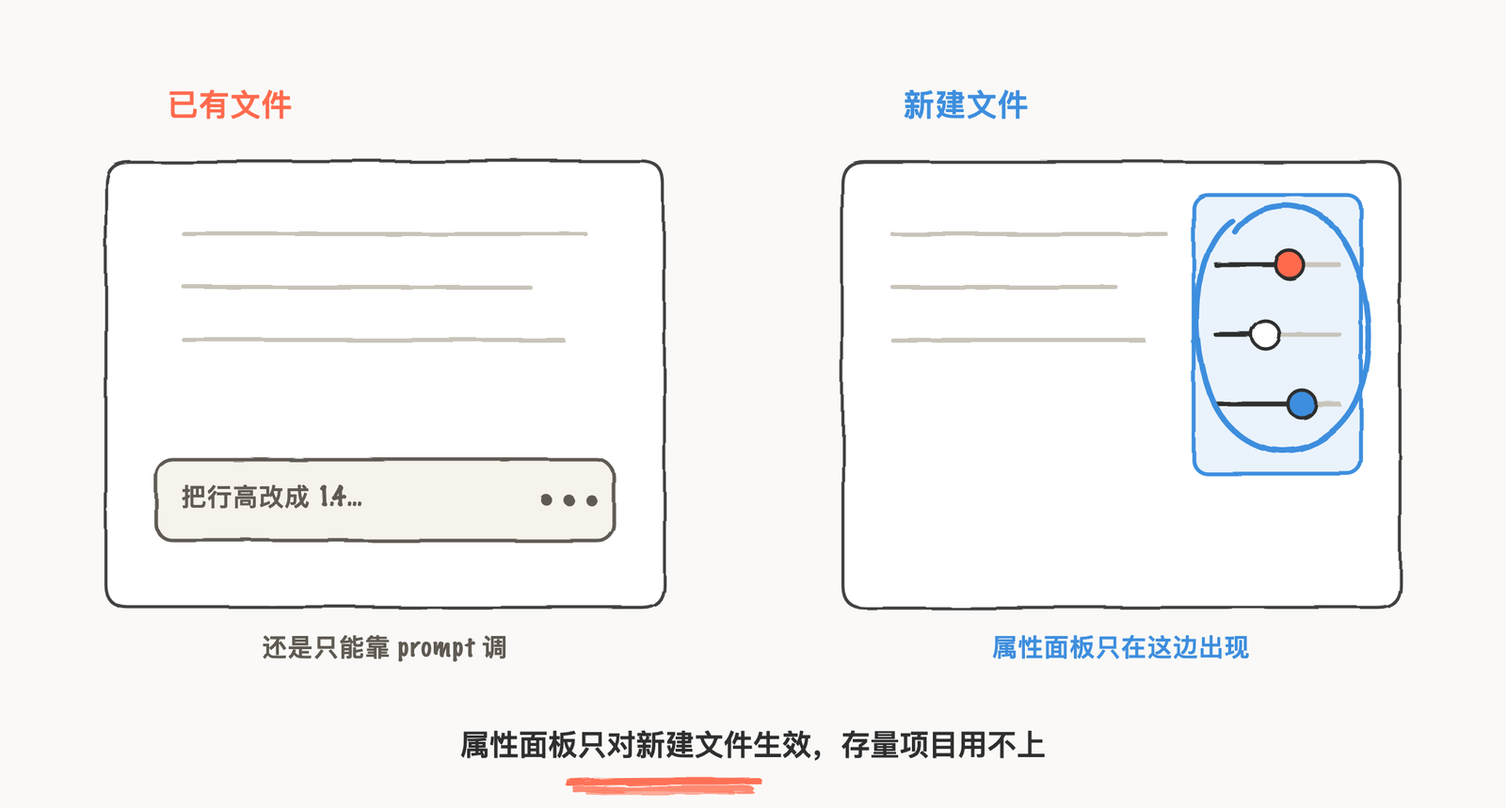
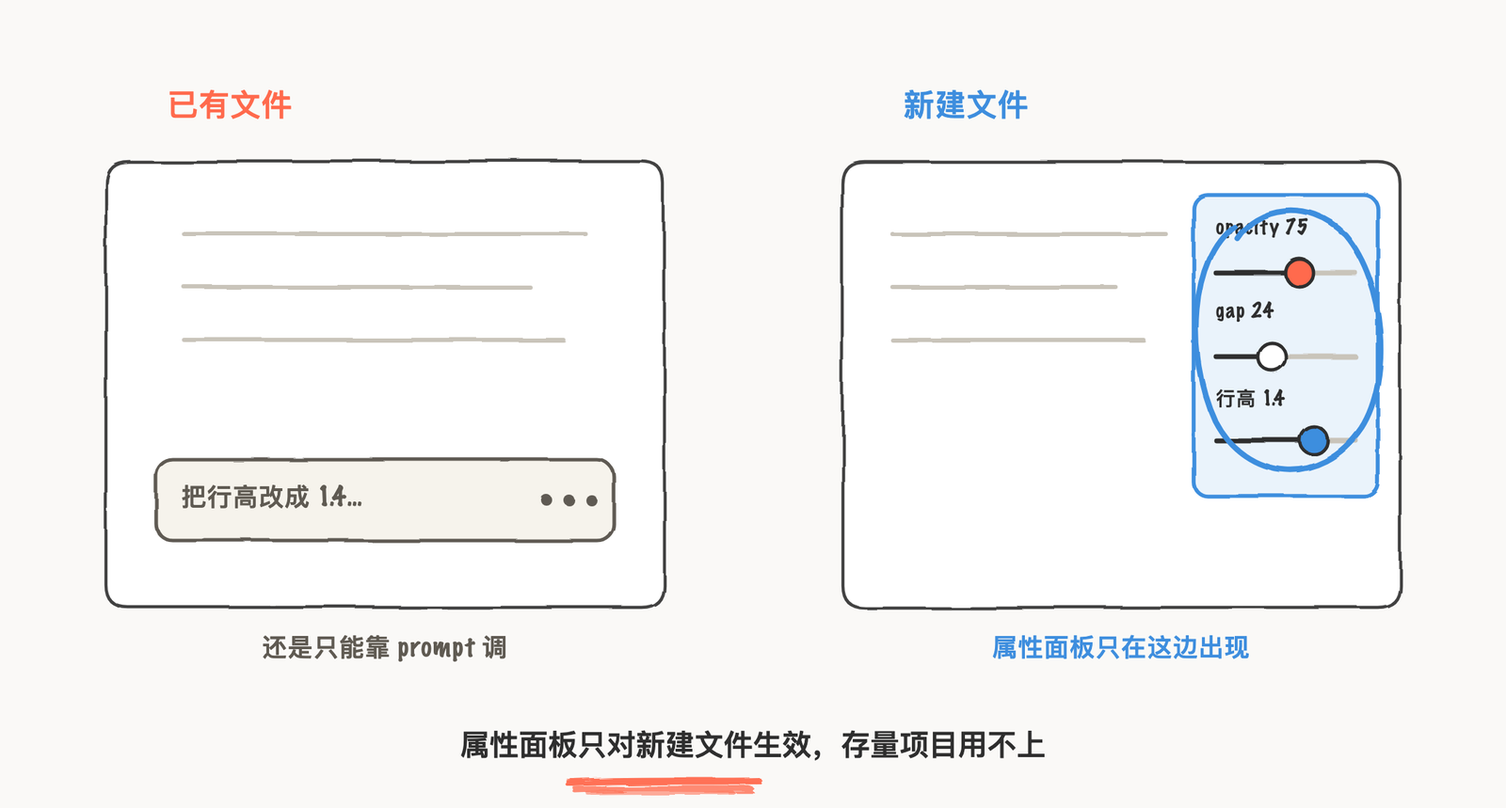
figma-make 文章:加 AutoLayout 段落与官方截图,手绘图补真实文字,标题改为 Figma make 活了

Changed region(s): [[0.7812, 0.2421, 0.9375, 0.6356]]

diff --git a/docs/writing/article-figma-make-properties-panel.html b/docs/writing/article-figma-make-properties-panel.html
@@ -4,7 +4,7 @@
 <head>
 <meta charset="utf-8"/>
 <meta content="width=device-width, initial-scale=1.0" name="viewport"/>
-<title>Prompt 不够用的时候属性面板来补 · VibeUX</title>
+<title>Figma make 活了 · VibeUX</title>
 <link href="../favicon.png?v=12" rel="icon" type="image/png"/>
 <link href="../favicon.png?v=12" rel="shortcut icon"/>
 <link href="../apple-touch-icon.png?v=12" rel="apple-touch-icon"/>
@@ -47,7 +47,7 @@
 </aside>
 <!-- 正文 -->
 <article class="article-reading">
-<h1 class="article-h1">Prompt 不够用的时候属性面板来补</h1>
+<h1 class="article-h1">Figma make 活了</h1>
 <div class="article-byline"><div class="article-eyebrow article-eyebrow-top"><span class="a-tag">AI 设计工具</span></div><span>2026-07-31</span><span>阅读约 7 分钟</span></div>
 <div class="article-cover"><iframe loading="lazy" src="assets/figma-make-properties-panel/cover.html"></iframe></div>
 <div class="article-body"><style>
@@ -481,14 +481,18 @@
     42% { transform: scale(1.2); }
   }
 </style>
-<p>Figma make 的交互方式只能在左侧 chat pannel 里通过 Prompt 的形式修改调整，相比于 cursor 早早支持的 design mode 属性面板，可以详细编辑调整视觉样式，Figma 作为前沿设计软件居然没有这种交互。这次，Figma make 终于赶来了。7 月 30 日 Figma 更新了 Make 编辑器，把 Design 里那个面板加进来了。</p>
-<div class="section-head"><span class="icon-badge" style="background: rgba(46, 134, 184, 0.1);"><svg fill="none" height="32" viewBox="0 0 24 24" width="32" xmlns="http://www.w3.org/2000/svg"><path clip-rule="evenodd" d="M11.0257 7.12C10.0573 6.76317 9.25184 6.4664 8.6236 6.33307C7.99692 6.20007 7.2628 6.1658 6.7143 6.7143C6.16579 7.26281 6.20007 7.99692 6.33307 8.6236C6.46639 9.25185 6.76317 10.0573 7.11999 11.0257L8.41465 14.5398C8.58695 15.0077 8.74432 15.435 8.91702 15.7509C9.10197 16.0893 9.395 16.4715 9.91716 16.5861C10.4393 16.7008 10.8655 16.4766 11.1753 16.2469C11.4645 16.0324 11.7864 15.7104 12.1389 15.3578L12.3975 15.0992L14.3428 17.0445C14.458 17.1596 14.5694 17.271 14.6705 17.3592C14.7808 17.4555 14.9187 17.5604 15.0964 17.634C15.4697 17.7887 15.8892 17.7887 16.2625 17.634C16.4402 17.5604 16.5781 17.4555 16.6884 17.3592C16.7895 17.271 16.9009 17.1596 17.0161 17.0445L17.0445 17.0161C17.1596 16.901 17.271 16.7895 17.3592 16.6885C17.4555 16.5781 17.5604 16.4402 17.634 16.2625C17.7887 15.8892 17.7887 15.4697 17.634 15.0964C17.5604 14.9187 17.4554 14.7808 17.3592 14.6705C17.271 14.5694 17.1596 14.458 17.0445 14.3428L15.0992 12.3975L15.3578 12.1389C15.7104 11.7864 16.0324 11.4645 16.2469 11.1753C16.4766 10.8656 16.7008 10.4393 16.5861 9.91717C16.4715 9.39501 16.0893 9.10197 15.7509 8.91702C15.435 8.74433 15.0077 8.58696 14.5398 8.41465L11.0257 7.12ZM7.75487 7.83859C7.76267 7.78024 7.77422 7.77528 7.77496 7.77496C7.77527 7.77422 7.78024 7.76268 7.83858 7.75487C7.9187 7.74415 8.06358 7.74763 8.3122 7.80039C8.82107 7.90839 9.52357 8.16514 10.566 8.5492L13.9717 9.80395C14.5057 10.0007 14.8252 10.1205 15.0315 10.2332C15.0433 10.2397 15.0541 10.2458 15.0639 10.2515C15.0574 10.2608 15.0501 10.2709 15.0421 10.2817C14.9021 10.4705 14.6622 10.7132 14.2598 11.1156L13.5082 11.8672C13.2153 12.1601 13.2153 12.635 13.5082 12.9279L15.9696 15.3893C16.1043 15.524 16.1785 15.5987 16.2288 15.6565C16.237 15.6659 16.2434 15.6735 16.2482 15.6795C16.2434 15.6854 16.237 15.6931 16.2288 15.7024C16.1785 15.7602 16.1043 15.8349 15.9696 15.9696C15.8349 16.1043 15.7602 16.1785 15.7024 16.2288C15.6976 16.2331 15.6932 16.2368 15.6892 16.2401C15.6856 16.2432 15.6823 16.2459 15.6795 16.2482C15.6735 16.2434 15.6659 16.237 15.6565 16.2288C15.5987 16.1785 15.524 16.1043 15.3893 15.9696L12.9279 13.5082C12.635 13.2153 12.1601 13.2153 11.8672 13.5082L11.1156 14.2598C10.7132 14.6622 10.4705 14.9021 10.2817 15.0421C10.2709 15.0501 10.2608 15.0574 10.2515 15.0639C10.2458 15.0541 10.2397 15.0433 10.2332 15.0315C10.1205 14.8252 10.0007 14.5057 9.80394 13.9718L8.5492 10.566C8.16514 9.52357 7.90838 8.82107 7.80038 8.3122C7.74762 8.06359 7.74414 7.9187 7.75487 7.83859Z" fill="#2E86B8" fill-rule="evenodd"></path><path clip-rule="evenodd" d="M12.0574 1.25H11.9426C9.63424 1.24999 7.82519 1.24998 6.41371 1.43975C4.96897 1.63399 3.82895 2.03933 2.93414 2.93414C2.03933 3.82895 1.63399 4.96897 1.43975 6.41371C1.24998 7.82519 1.24999 9.63422 1.25 11.9426V12.0574C1.24999 14.3658 1.24998 16.1748 1.43975 17.5863C1.63399 19.031 2.03933 20.1711 2.93414 21.0659C3.82895 21.9607 4.96897 22.366 6.41371 22.5603C7.82519 22.75 9.63423 22.75 11.9426 22.75H12.0574C14.3658 22.75 16.1748 22.75 17.5863 22.5603C19.031 22.366 20.1711 21.9607 21.0659 21.0659C21.9607 20.1711 22.366 19.031 22.5603 17.5863C22.75 16.1748 22.75 14.3658 22.75 12.0574V11.9426C22.75 9.63423 22.75 7.82519 22.5603 6.41371C22.366 4.96897 21.9607 3.82895 21.0659 2.93414C20.1711 2.03933 19.031 1.63399 17.5863 1.43975C16.1748 1.24998 14.3658 1.24999 12.0574 1.25ZM3.9948 3.9948C4.56445 3.42514 5.33517 3.09825 6.61358 2.92637C7.91356 2.75159 9.62177 2.75 12 2.75C14.3782 2.75 16.0864 2.75159 17.3864 2.92637C18.6648 3.09825 19.4355 3.42514 20.0052 3.9948C20.5749 4.56445 20.9018 5.33517 21.0736 6.61358C21.2484 7.91356 21.25 9.62177 21.25 12C21.25 14.3782 21.2484 16.0864 21.0736 17.3864C20.9018 18.6648 20.5749 19.4355 20.0052 20.0052C19.4355 20.5749 18.6648 20.9018 17.3864 21.0736C16.0864 21.2484 14.3782 21.25 12 21.25C9.62177 21.25 7.91356 21.2484 6.61358 21.0736C5.33517 20.9018 4.56445 20.5749 3.9948 20.0052C3.42514 19.4355 3.09825 18.6648 2.92637 17.3864C2.75159 16.0864 2.75 14.3782 2.75 12C2.75 9.62177 2.75159 7.91356 2.92637 6.61358C3.09825 5.33517 3.42514 4.56445 3.9948 3.9948Z" fill="#2E86B8" fill-rule="evenodd"></path></svg></span><h2 style="color: #2E86B8;">Prompt 做不到指哪改哪的精确</h2></div>
-<p>Figma Make 从上线到现在一直是纯 prompt 驱动：文字描述要改什么，agent 把改动写进代码。类似 opacity 从 80 调到 75、行高从 1.5 改到 1.4，这种精确到具体数字的微调是想路径是这样：先在代码里搜索定位是哪个元素，再改数值，有时候意图模糊时还得猜到底是多少，这种细节调整明显手搓比让 agent 跑一轮更快更准。</p>
-<div class="section-head"><span class="icon-badge" style="background: rgba(46, 134, 184, 0.1);"><svg fill="none" height="32" viewBox="0 0 24 24" width="32" xmlns="http://www.w3.org/2000/svg"><path d="M16.9585 9.75C16.5443 9.75 16.2085 9.41421 16.2085 9L16.2085 2C16.2085 1.58579 16.5443 1.25 16.9585 1.25C17.3727 1.25 17.7085 1.58579 17.7085 2L17.7085 9C17.7085 9.41421 17.3727 9.75 16.9585 9.75Z" fill="#2E86B8"></path><path clip-rule="evenodd" d="M7 5.75C9.07107 5.75 10.75 7.42893 10.75 9.5C10.75 11.5711 9.07107 13.25 7 13.25C4.92893 13.25 3.25 11.5711 3.25 9.5C3.25 7.42893 4.92893 5.75 7 5.75ZM9.25 9.5C9.25 8.25736 8.24264 7.25 7 7.25C5.75736 7.25 4.75 8.25736 4.75 9.5C4.75 10.7426 5.75736 11.75 7 11.75C8.24264 11.75 9.25 10.7426 9.25 9.5Z" fill="#2E86B8" fill-rule="evenodd"></path><path clip-rule="evenodd" d="M17 18.25C19.0711 18.25 20.75 16.5711 20.75 14.5C20.75 12.4289 19.0711 10.75 17 10.75C14.9289 10.75 13.25 12.4289 13.25 14.5C13.25 16.5711 14.9289 18.25 17 18.25ZM19.25 14.5C19.25 15.7426 18.2426 16.75 17 16.75C15.7574 16.75 14.75 15.7426 14.75 14.5C14.75 13.2574 15.7574 12.25 17 12.25C18.2426 12.25 19.25 13.2574 19.25 14.5Z" fill="#2E86B8" fill-rule="evenodd"></path><path d="M6.20852 15C6.20852 14.5858 6.54431 14.25 6.95852 14.25C7.37273 14.25 7.70852 14.5858 7.70852 15V22C7.70852 22.4142 7.37273 22.75 6.95852 22.75C6.54431 22.75 6.20852 22.4142 6.20852 22V15Z" fill="#2E86B8"></path><path d="M16.9585 22.75C16.5443 22.75 16.2085 22.4142 16.2085 22V20C16.2085 19.5858 16.5443 19.25 16.9585 19.25C17.3727 19.25 17.7085 19.5858 17.7085 20V22C17.7085 22.4142 17.3727 22.75 16.9585 22.75Z" fill="#2E86B8"></path><path d="M6.20852 2C6.20852 1.58579 6.54431 1.25 6.95852 1.25C7.37273 1.25 7.70852 1.58579 7.70852 2V4C7.70852 4.41421 7.37273 4.75 6.95852 4.75C6.54431 4.75 6.20852 4.41421 6.20852 4V2Z" fill="#2E86B8"></path></svg></span><h2 style="color: #2E86B8;">使用属性面板进行精确编辑</h2></div>
-<p>因此，直接给 Make 加上精确的操作目标，省掉了文字 prompt 需要的搜索和猜测。具体操作是右上角工具栏点 "Edit"，右侧弹出面板上都是常见参数操作方式和 Figma Design 里基本一样。面板里还带了一套完整的 DOM tree 视图，官方管它叫 "code 的 layers panel"，选中一个元素之后可以看到它在代码里的层级位置，所有实例一次性批量改。批量编辑这个能力其实 Design 的属性面板没有，Make 这边反倒先做了，算是个小惊喜。</p>
+<p>Figma make 是 AI 时代早期加入 AI 提示词生成 UI 的设计工具，但后续进度有点慢了，那些在 design 模式下的工具面板、 AutoLayout 这些可视化的便捷操作，始终没有并入到 AI coding 中，<strong>一种 UI 元素是极其僵硬的原始感觉</strong>，怎么还没进化的期待感。相对来说 cursor 早早支持的 design mode 属性面板可以详细编辑调整视觉样式，在设计工具这一条线是走得更快的，Figma 作为前沿设计软件居然没有这种交互。</p>
+<p>大部分 design Agent 工具一直在解决 Prompt 做不到指哪改哪的精确控制问题，是因为这类工具的用户画像是 UI设计师、UX 设计师、Motion 设计师群体本身都是细节控，都有精确到像素点的习惯，自然就希望每个元素都必须能自己掌控。</p>
+<p>这次，Figma make 终于赶上来了。7 月 30 日 Figma 更新了 Make 编辑器，把 Design 里那个面板加进来了，同时还有AutoLayout、点哪改哪的 Agent。</p>
+<div class="section-head"><span class="icon-badge" style="background: rgba(46, 134, 184, 0.1);"><svg fill="none" height="32" viewBox="0 0 24 24" width="32" xmlns="http://www.w3.org/2000/svg"><path clip-rule="evenodd" d="M11.0257 7.12C10.0573 6.76317 9.25184 6.4664 8.6236 6.33307C7.99692 6.20007 7.2628 6.1658 6.7143 6.7143C6.16579 7.26281 6.20007 7.99692 6.33307 8.6236C6.46639 9.25185 6.76317 10.0573 7.11999 11.0257L8.41465 14.5398C8.58695 15.0077 8.74432 15.435 8.91702 15.7509C9.10197 16.0893 9.395 16.4715 9.91716 16.5861C10.4393 16.7008 10.8655 16.4766 11.1753 16.2469C11.4645 16.0324 11.7864 15.7104 12.1389 15.3578L12.3975 15.0992L14.3428 17.0445C14.458 17.1596 14.5694 17.271 14.6705 17.3592C14.7808 17.4555 14.9187 17.5604 15.0964 17.634C15.4697 17.7887 15.8892 17.7887 16.2625 17.634C16.4402 17.5604 16.5781 17.4555 16.6884 17.3592C16.7895 17.271 16.9009 17.1596 17.0161 17.0445L17.0445 17.0161C17.1596 16.901 17.271 16.7895 17.3592 16.6885C17.4555 16.5781 17.5604 16.4402 17.634 16.2625C17.7887 15.8892 17.7887 15.4697 17.634 15.0964C17.5604 14.9187 17.4554 14.7808 17.3592 14.6705C17.271 14.5694 17.1596 14.458 17.0445 14.3428L15.0992 12.3975L15.3578 12.1389C15.7104 11.7864 16.0324 11.4645 16.2469 11.1753C16.4766 10.8656 16.7008 10.4393 16.5861 9.91717C16.4715 9.39501 16.0893 9.10197 15.7509 8.91702C15.435 8.74433 15.0077 8.58696 14.5398 8.41465L11.0257 7.12ZM7.75487 7.83859C7.76267 7.78024 7.77422 7.77528 7.77496 7.77496C7.77527 7.77422 7.78024 7.76268 7.83858 7.75487C7.9187 7.74415 8.06358 7.74763 8.3122 7.80039C8.82107 7.90839 9.52357 8.16514 10.566 8.5492L13.9717 9.80395C14.5057 10.0007 14.8252 10.1205 15.0315 10.2332C15.0433 10.2397 15.0541 10.2458 15.0639 10.2515C15.0574 10.2608 15.0501 10.2709 15.0421 10.2817C14.9021 10.4705 14.6622 10.7132 14.2598 11.1156L13.5082 11.8672C13.2153 12.1601 13.2153 12.635 13.5082 12.9279L15.9696 15.3893C16.1043 15.524 16.1785 15.5987 16.2288 15.6565C16.237 15.6659 16.2434 15.6735 16.2482 15.6795C16.2434 15.6854 16.237 15.6931 16.2288 15.7024C16.1785 15.7602 16.1043 15.8349 15.9696 15.9696C15.8349 16.1043 15.7602 16.1785 15.7024 16.2288C15.6976 16.2331 15.6932 16.2368 15.6892 16.2401C15.6856 16.2432 15.6823 16.2459 15.6795 16.2482C15.6735 16.2434 15.6659 16.237 15.6565 16.2288C15.5987 16.1785 15.524 16.1043 15.3893 15.9696L12.9279 13.5082C12.635 13.2153 12.1601 13.2153 11.8672 13.5082L11.1156 14.2598C10.7132 14.6622 10.4705 14.9021 10.2817 15.0421C10.2709 15.0501 10.2608 15.0574 10.2515 15.0639C10.2458 15.0541 10.2397 15.0433 10.2332 15.0315C10.1205 14.8252 10.0007 14.5057 9.80394 13.9718L8.5492 10.566C8.16514 9.52357 7.90838 8.82107 7.80038 8.3122C7.74762 8.06359 7.74414 7.9187 7.75487 7.83859Z" fill="#2E86B8" fill-rule="evenodd"></path><path clip-rule="evenodd" d="M12.0574 1.25H11.9426C9.63424 1.24999 7.82519 1.24998 6.41371 1.43975C4.96897 1.63399 3.82895 2.03933 2.93414 2.93414C2.03933 3.82895 1.63399 4.96897 1.43975 6.41371C1.24998 7.82519 1.24999 9.63422 1.25 11.9426V12.0574C1.24999 14.3658 1.24998 16.1748 1.43975 17.5863C1.63399 19.031 2.03933 20.1711 2.93414 21.0659C3.82895 21.9607 4.96897 22.366 6.41371 22.5603C7.82519 22.75 9.63423 22.75 11.9426 22.75H12.0574C14.3658 22.75 16.1748 22.75 17.5863 22.5603C19.031 22.366 20.1711 21.9607 21.0659 21.0659C21.9607 20.1711 22.366 19.031 22.5603 17.5863C22.75 16.1748 22.75 14.3658 22.75 12.0574V11.9426C22.75 9.63423 22.75 7.82519 22.5603 6.41371C22.366 4.96897 21.9607 3.82895 21.0659 2.93414C20.1711 2.03933 19.031 1.63399 17.5863 1.43975C16.1748 1.24998 14.3658 1.24999 12.0574 1.25ZM3.9948 3.9948C4.56445 3.42514 5.33517 3.09825 6.61358 2.92637C7.91356 2.75159 9.62177 2.75 12 2.75C14.3782 2.75 16.0864 2.75159 17.3864 2.92637C18.6648 3.09825 19.4355 3.42514 20.0052 3.9948C20.5749 4.56445 20.9018 5.33517 21.0736 6.61358C21.2484 7.91356 21.25 9.62177 21.25 12C21.25 14.3782 21.2484 16.0864 21.0736 17.3864C20.9018 18.6648 20.5749 19.4355 20.0052 20.0052C19.4355 20.5749 18.6648 20.9018 17.3864 21.0736C16.0864 21.2484 14.3782 21.25 12 21.25C9.62177 21.25 7.91356 21.2484 6.61358 21.0736C5.33517 20.9018 4.56445 20.5749 3.9948 20.0052C3.42514 19.4355 3.09825 18.6648 2.92637 17.3864C2.75159 16.0864 2.75 14.3782 2.75 12C2.75 9.62177 2.75159 7.91356 2.92637 6.61358C3.09825 5.33517 3.42514 4.56445 3.9948 3.9948Z" fill="#2E86B8" fill-rule="evenodd"></path></svg></span><h2 style="color: #2E86B8;">增加属性面板进行精确编辑</h2></div>
+<p>延续 design 模式下的调参习惯，直接给 Make 加上精确的操作目标，省掉了文字 prompt 需要的搜索和猜测。具体操作是右上角工具栏点 "Edit"，右侧弹出面板上都是常见参数操作方式和 Figma Design 里基本一样。并且从代码角度，视觉上构建的内容和实际发布的内容一样。</p>
 <img alt="选中 div 容器，右侧属性面板里直接改 gap 值" src="assets/figma-make-properties-panel/make-properties-panel-ui.jpg"/><div class="img-caption">选中 div 容器，右侧属性面板里直接改 gap 值</div>
-<p>同一版更新还带了注释功能。在工具栏选 "Annotate for agent"，直接在画布上圈一块区域，用自己的话描述想要的交互效果，比如 "hover 时缩略图微微放大"。agent 读取你标记的精确位置，把改动应用到对应的元素上。属性面板管数值精度，注释让你不用在 prompt 里费劲描述 "页面上哪个按钮"，都往 prompt 一个输入框里塞的时候确实够呛。</p>
+<p>画布上的 AutoLayout 也一起搬进来了。比如选中一个 nav 容器，Position 直接给到 Auto，排布方向、间距、padding 逐项可调，宽高能选 Fill 或 Hug，往下还有 Typography 和 Background 这些分组，字体、字号、行距、透明度都是 Design 里熟悉的那套控件。设计师在 Design 里养成的布局手感，到 Make 里不用重新学一遍。</p>
+<img alt="Make 里选中 nav，AutoLayout 的方向间距和 Fill / Hug 都在面板里" src="assets/figma-make-properties-panel/autolayout-ui.jpg"/><div class="img-caption">Make 里选中 nav，AutoLayout 的方向间距和 Fill / Hug 都在面板里</div>
+<p>还有一个新功能是标注功能。在工具栏选 "Annotate for agent"，直接在画布上选择区域 prompt 式交互，比如 "hover 时缩略图微微放大、松手恢复，动效采用 ease out"，agent 就能读取标记的精确位置修改元素。这种做法</p>
 <img alt="画布上圈选区域，编号注释直接写给 agent" src="assets/figma-make-properties-panel/make-annotations-ui.jpg"/><div class="img-caption">画布上圈选区域，编号注释直接写给 agent</div>
+<div class="section-head"><span class="icon-badge" style="background: rgba(46, 134, 184, 0.1);"><svg fill="none" height="32" viewBox="0 0 24 24" width="32" xmlns="http://www.w3.org/2000/svg"><path d="M16.9585 9.75C16.5443 9.75 16.2085 9.41421 16.2085 9L16.2085 2C16.2085 1.58579 16.5443 1.25 16.9585 1.25C17.3727 1.25 17.7085 1.58579 17.7085 2L17.7085 9C17.7085 9.41421 17.3727 9.75 16.9585 9.75Z" fill="#2E86B8"></path><path clip-rule="evenodd" d="M7 5.75C9.07107 5.75 10.75 7.42893 10.75 9.5C10.75 11.5711 9.07107 13.25 7 13.25C4.92893 13.25 3.25 11.5711 3.25 9.5C3.25 7.42893 4.92893 5.75 7 5.75ZM9.25 9.5C9.25 8.25736 8.24264 7.25 7 7.25C5.75736 7.25 4.75 8.25736 4.75 9.5C4.75 10.7426 5.75736 11.75 7 11.75C8.24264 11.75 9.25 10.7426 9.25 9.5Z" fill="#2E86B8" fill-rule="evenodd"></path><path clip-rule="evenodd" d="M17 18.25C19.0711 18.25 20.75 16.5711 20.75 14.5C20.75 12.4289 19.0711 10.75 17 10.75C14.9289 10.75 13.25 12.4289 13.25 14.5C13.25 16.5711 14.9289 18.25 17 18.25ZM19.25 14.5C19.25 15.7426 18.2426 16.75 17 16.75C15.7574 16.75 14.75 15.7426 14.75 14.5C14.75 13.2574 15.7574 12.25 17 12.25C18.2426 12.25 19.25 13.2574 19.25 14.5Z" fill="#2E86B8" fill-rule="evenodd"></path><path d="M6.20852 15C6.20852 14.5858 6.54431 14.25 6.95852 14.25C7.37273 14.25 7.70852 14.5858 7.70852 15V22C7.70852 22.4142 7.37273 22.75 6.95852 22.75C6.54431 22.75 6.20852 22.4142 6.20852 22V15Z" fill="#2E86B8"></path><path d="M16.9585 22.75C16.5443 22.75 16.2085 22.4142 16.2085 22V20C16.2085 19.5858 16.5443 19.25 16.9585 19.25C17.3727 19.25 17.7085 19.5858 17.7085 20V22C17.7085 22.4142 17.3727 22.75 16.9585 22.75Z" fill="#2E86B8"></path><path d="M6.20852 2C6.20852 1.58579 6.54431 1.25 6.95852 1.25C7.37273 1.25 7.70852 1.58579 7.70852 2V4C7.70852 4.41421 7.37273 4.75 6.95852 4.75C6.54431 4.75 6.20852 4.41421 6.20852 4V2Z" fill="#2E86B8"></path></svg></span><h2 style="color: #2E86B8;">Design 的使用习惯<br/>解决 Prompt 做不到指哪改哪的精确控制问题</h2></div>
+<p>Figma Make 从上线以来一直是纯 prompt 驱动：文字描述要改什么，agent 把改动写进代码。类似 opacity 从 80 调到 75、行高从 1.5 改到 1.4，这种精确到具体数字的微调是想路径是这样：先在代码里搜索定位是哪个元素，再改数值，有时候意图模糊时还得猜到底是多少，这种细节调整明显手搓比让 agent 跑一轮更快更准。</p>
 <div class="section-head"><span class="icon-badge" style="background: rgba(46, 134, 184, 0.1);"><svg fill="none" height="32" viewBox="0 0 24 24" width="32" xmlns="http://www.w3.org/2000/svg"><path clip-rule="evenodd" d="M7.09878 1.25004C7.14683 1.25006 7.19559 1.25008 7.24508 1.25008H16.7551C16.8045 1.25008 16.8533 1.25006 16.9014 1.25004C17.9181 1.2496 18.6178 1.24929 19.2072 1.45435C20.3201 1.84161 21.1842 2.73726 21.5547 3.86559L20.8421 4.09954L21.5547 3.86559C21.7507 4.46271 21.7505 5.17254 21.7501 6.22655C21.7501 6.27372 21.7501 6.32158 21.7501 6.37014V20.3743C21.7501 21.8395 20.0231 22.7118 18.8857 21.671C18.8062 21.5983 18.694 21.5983 18.6145 21.671L18.1314 22.1131C17.2032 22.9624 15.7969 22.9624 14.8688 22.1131C14.5138 21.7882 13.9864 21.7882 13.6314 22.1131C12.7032 22.9624 11.2969 22.9624 10.3688 22.1131C10.0138 21.7882 9.48637 21.7882 9.13138 22.1131C8.20319 22.9624 6.79694 22.9624 5.86875 22.1131L5.38566 21.671C5.30618 21.5983 5.19395 21.5983 5.11448 21.671C3.97705 22.7118 2.25007 21.8395 2.25007 20.3743V6.37014C2.25007 6.32158 2.25005 6.27372 2.25003 6.22655C2.24965 5.17255 2.24939 4.46271 2.44545 3.86559C2.81591 2.73726 3.68002 1.84161 4.79298 1.45435C5.3823 1.24929 6.08203 1.2496 7.09878 1.25004ZM7.24508 2.75008C6.024 2.75008 5.6034 2.76057 5.28593 2.87103C4.62655 3.10047 4.09919 3.63728 3.8706 4.3335C3.75951 4.67183 3.75007 5.11796 3.75007 6.37014V20.3743C3.75007 20.4933 3.80999 20.5661 3.88517 20.6009C3.92434 20.619 3.96264 20.6237 3.99456 20.6194C4.0227 20.6156 4.05911 20.6035 4.10185 20.5644C4.75453 19.9671 5.74561 19.9671 6.39828 20.5644L6.88138 21.0065C7.23637 21.3313 7.76377 21.3313 8.11875 21.0065C9.04694 20.1571 10.4532 20.1571 11.3814 21.0065C11.7364 21.3313 12.2638 21.3313 12.6188 21.0065C13.5469 20.1571 14.9532 20.1571 15.8814 21.0065C16.2364 21.3313 16.7638 21.3313 17.1188 21.0065L17.6019 20.5644C18.2545 19.9671 19.2456 19.9671 19.8983 20.5644C19.941 20.6035 19.9774 20.6156 20.0056 20.6194C20.0375 20.6237 20.0758 20.619 20.115 20.6009C20.1901 20.5661 20.2501 20.4934 20.2501 20.3743V6.37014C20.2501 5.11797 20.2406 4.67183 20.1295 4.3335C19.9009 3.63728 19.3736 3.10047 18.7142 2.87103C18.3967 2.76057 17.9761 2.75008 16.7551 2.75008H7.24508ZM14.9996 7.44063C15.3086 7.7165 15.3354 8.19062 15.0595 8.49959L11.4881 12.4996C11.3458 12.659 11.1423 12.7501 10.9286 12.7501C10.715 12.7501 10.5115 12.659 10.3692 12.4996L8.94061 10.8996C8.66474 10.5906 8.69158 10.1165 9.00056 9.84063C9.30953 9.56476 9.78365 9.59159 10.0595 9.90057L10.9286 10.874L13.9406 7.50057C14.2165 7.19159 14.6906 7.16476 14.9996 7.44063ZM6.75007 15.5001C6.75007 15.0859 7.08585 14.7501 7.50007 14.7501H16.5001C16.9143 14.7501 17.2501 15.0859 17.2501 15.5001C17.2501 15.9143 16.9143 16.2501 16.5001 16.2501H7.50007C7.08585 16.2501 6.75007 15.9143 6.75007 15.5001Z" fill="#2E86B8" fill-rule="evenodd"></path></svg></span><h2 style="color: #2E86B8;">先暂存后扣分把试错和消费拆开了</h2></div>
 <p>属性面板和注释做的编辑不是一改就生效的。每一条编辑先暂存到 prompt box 里，你可以逐条过一遍，不想要的随手丢掉，确认了再点应用。Make 这时候才把改动写进底层代码，文件更新到一个新版本。积分在应用这一步才扣，暂存状态完全不花钱。</p>
 <p>随便拖、随便调都行，拖 10 次只扣最后确认的那 1 次。Phillip Wang 说每次编辑比 prompt 描述同一个改动省得多的 token 也更快，省 token 是真的，因为直接操作给了 agent 精确目标不用搜索；但我觉得更省的其实是试错的钱，prompt 方式下每一轮尝试都在烧积分，暂存机制把试探和落地拆成了两件事。</p>
@@ -506,7 +510,7 @@
 <p>本文功能说明与界面截图来自 Figma 官方博客 A Properties Panel and Annotations, Now in Figma Make；其余配图为本人手绘信息图。</p></div>
 <!-- 底部 -->
 <footer class="article-footer">
-<div class="same-collection"><div class="sc-title">合集 · Figma 观察</div><a href="article-figma-config-2026.html"><span class="sc-num">01</span><span>设计师被 AI 替代之前，Figma 用一整套新功能抬高设计师上限</span></a><a href="article-figma-shader-motion.html"><span class="sc-num">02</span><span>在设计系统里，Figma Shader 和 Motion ，正从效果变成可复用元素</span></a><a href="article-figma-make-gpt-5-6.html"><span class="sc-num">03</span><span>设计师的新习惯，给 AI 模型分工</span></a><a href="article-figma-make-designer-pr.html"><span class="sc-num">04</span><span>AI native 设计师的交付物，不只设计稿，还有 GitHub PR</span></a><a href="article-config-2026-visual-identity.html"><span class="sc-num">05</span><span>品牌设计师的材质，是自己写的工具</span></a><a href="article-figma-make-properties-panel.html"><span class="sc-num">06</span><span>Prompt 不够用的时候属性面板来补</span></a></div>
+<div class="same-collection"><div class="sc-title">合集 · Figma 观察</div><a href="article-figma-config-2026.html"><span class="sc-num">01</span><span>设计师被 AI 替代之前，Figma 用一整套新功能抬高设计师上限</span></a><a href="article-figma-shader-motion.html"><span class="sc-num">02</span><span>在设计系统里，Figma Shader 和 Motion ，正从效果变成可复用元素</span></a><a href="article-figma-make-gpt-5-6.html"><span class="sc-num">03</span><span>设计师的新习惯，给 AI 模型分工</span></a><a href="article-figma-make-designer-pr.html"><span class="sc-num">04</span><span>AI native 设计师的交付物，不只设计稿，还有 GitHub PR</span></a><a href="article-config-2026-visual-identity.html"><span class="sc-num">05</span><span>品牌设计师的材质，是自己写的工具</span></a><a href="article-figma-make-properties-panel.html"><span class="sc-num">06</span><span>Figma make 活了</span></a></div>
 </footer>
 </article>
 </div>

diff --git a/docs/writing/writing.js b/docs/writing/writing.js
@@ -423,7 +423,7 @@ function initTOC() {
    ======================================== */
 /* READER_ARTICLES:AUTO —— 发布时 render.py 从 articles.json 自动重生成此数组,勿手改。 */
 let READER_ARTICLES = [
-    { file: "article-figma-make-properties-panel.html", cat: "product", title: "Prompt 不够用的时候属性面板来补", date: "2026-07-31", cover: "assets/figma-make-properties-panel/cover.png", accent: "#2E86B8" },
+    { file: "article-figma-make-properties-panel.html", cat: "product", title: "Figma make 活了", date: "2026-07-31", cover: "assets/figma-make-properties-panel/cover.png", accent: "#2E86B8" },
     { file: "article-config-2026-visual-identity.html", cat: "ui", title: "品牌设计师的材质，是自己写的工具", date: "2026-07-30", cover: "assets/config-2026-visual-identity/cover.png", accent: "#1693B6" },
     { file: "article-model-routing-by-task.html", cat: "product", title: "AI 产品的模型决策交互，最好的形态可能是没有交互", date: "2026-07-26", cover: "assets/model-routing-by-task/cover2.png", accent: "#03071a" },
     { file: "article-claude-code-verification-loops.html", cat: "product", title: "验证循环，把手动检查写进 Skill", date: "2026-07-23", cover: "assets/claude-code-verification-loops/cover4.png", accent: "#6A823F" },
